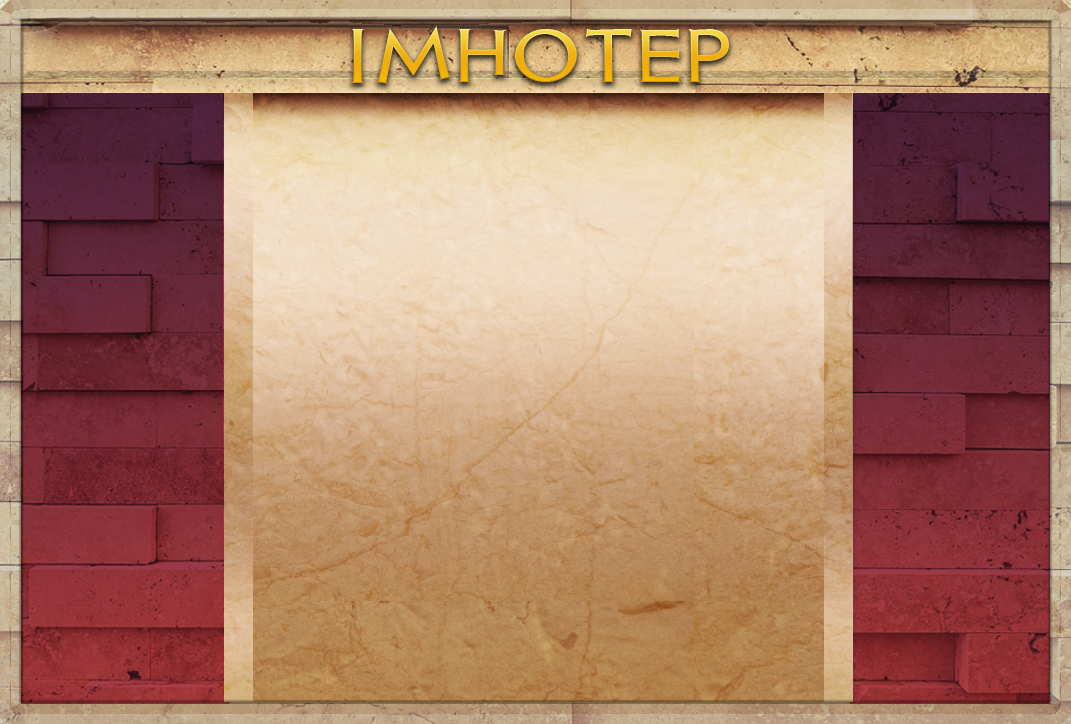
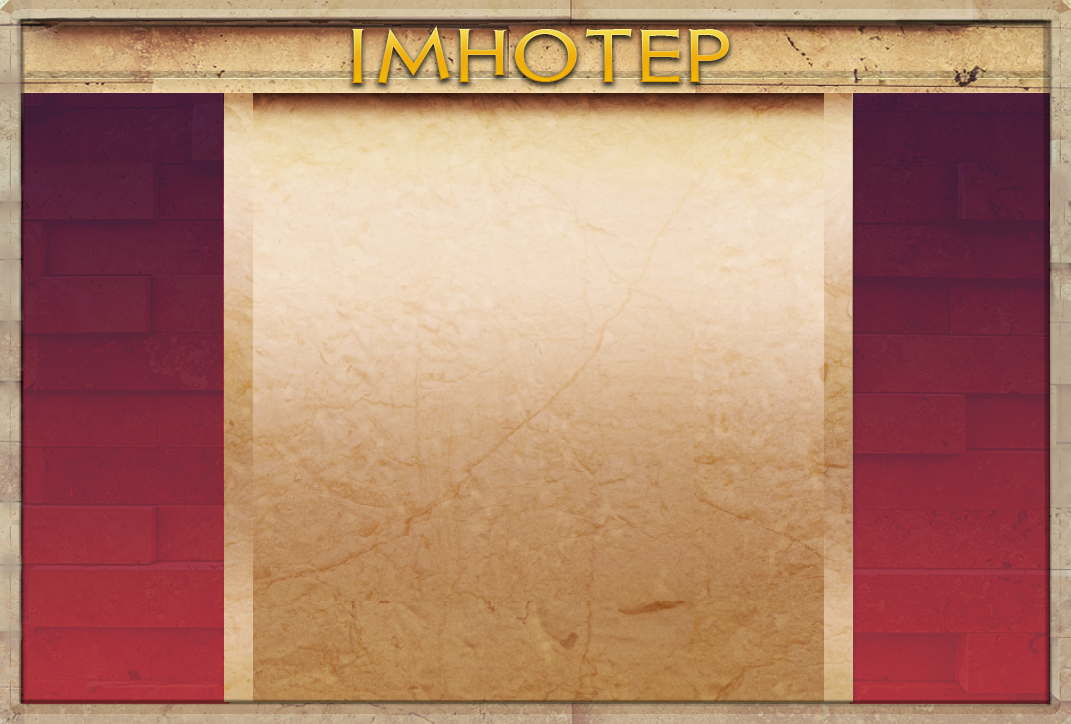
Registrationscne mit css versorgt

diff --git a/client/src/main/resources/style.css b/client/src/main/resources/style.css
@@ -2,18 +2,12 @@
     -fx-text-fill: #f4c933;
     -fx-background-color: linear-gradient(to bottom, #753b64 0%,#623e66 100%); /* W3C, IE10+, FF16+, Chrome26+, Opera12+, Safari7+ */
     -fx-border-radius: 0;
-
     -fx-font-weight: bold;
 
 }
 
-.grid .button{
-    -fx-effect: dropshadow(three-pass-box, rgba(0,0,0,0.8), 10, 0, 0, 0);
-}
 
-.grid {
 
-}
 #loginroot{
     -fx-background-image: url("imhotep.png");
     -fx-background-repeat: stretch;
@@ -21,7 +15,14 @@
     -fx-border-width:5;
 }
 
-#nav{
+#regroot{
+    -fx-background-image: url("imhotep.png");
+    -fx-background-repeat: stretch;
+    -fx-background-size: 720 480;
+    -fx-border-width:5;
+}
+
+.nav{
     -webkit-fx-padding: 5 5 5 5;
     -moz-fx-padding: 5 5 5 5;
     -ms-fx-padding: 5 5 5 5;

diff --git a/client/src/main/java/registration/view/RegistrationViewImpl.java b/client/src/main/java/registration/view/RegistrationViewImpl.java
@@ -9,8 +9,13 @@ import javafx.scene.control.Button;
 import javafx.scene.control.Label;
 import javafx.scene.control.PasswordField;
 import javafx.scene.control.TextField;
+import javafx.scene.input.MouseEvent;
+import javafx.scene.layout.BorderPane;
 import javafx.scene.layout.GridPane;
 import javafx.scene.paint.Color;
+import javafx.scene.layout.HBox;
+import javafx.scene.shape.Rectangle;
+import login.view.LoginViewImpl;
 import registration.presenter.RegistrationPresenter;
 
 
@@ -25,12 +30,30 @@ public class RegistrationViewImpl implements RegistrationView {
   }
 
   public void buildRegistration() {
-    GridPane root = new GridPane();
-    root.setAlignment(Pos.CENTER);
-    root.setPadding(new Insets(5));
-    root.setHgap(5);
-    root.setVgap(5);
-    registrationScene = new Scene(root);
+    BorderPane main = new BorderPane();
+    main.setId("regroot");
+    GridPane grid = new GridPane();
+    grid.setAlignment(Pos.CENTER);
+    grid.setPadding(new Insets(5));
+    grid.setHgap(5);
+    grid.setVgap(5);
+
+    Rectangle rect = new Rectangle(720,480);
+    rect.setArcHeight(30.0);
+    rect.setArcWidth(30.0);
+    main.setClip(rect);
+
+    HBox nav = new HBox();
+    nav.setId("nav");
+    nav.setSpacing(10);
+    nav.setAlignment(Pos.CENTER_RIGHT);
+    nav.setPadding(new Insets(15, 15, 15, 12));
+    main.setTop(nav);
+    main.setCenter(grid);
+
+
+    registrationScene = new Scene(main);
+    registrationScene.setFill(Color.TRANSPARENT);
 
     Label name = new Label("Benutzername:");
     TextField nameField = new TextField();
@@ -63,6 +86,22 @@ public class RegistrationViewImpl implements RegistrationView {
       }
     });
 
+    Button close = new Button("x");
+    close.addEventHandler(ActionEvent.ACTION, new EventHandler<ActionEvent>() {
+      public void handle(ActionEvent event) {
+        System.exit(0);
+      }
+    });
+
+    Button min =  new Button("_");
+    min.addEventHandler(ActionEvent.ACTION, new EventHandler<ActionEvent>() {
+      public void handle(ActionEvent event) {
+        registrationPresenter.getSceneController().getStage().setIconified(true);
+      }
+    });
+
+    min.setMinWidth(20);
+    close.setMinWidth(20);
     Button login = new Button("Zum Login wechseln");
     login.addEventHandler(ActionEvent.ACTION, new EventHandler<ActionEvent>() {
       public void handle(ActionEvent event) {
@@ -70,17 +109,33 @@ public class RegistrationViewImpl implements RegistrationView {
       }
     });
 
-    root.add(name, 2, 1);
-    root.add(nameField, 3, 1);
-    root.add(password, 2, 2);
-    root.add(passwordField, 3, 2);
-    root.add(password2, 2, 3);
-    root.add(passwordField2, 3, 3);
-    root.add(email, 2, 4);
-    root.add(emailField, 3, 4);
-    root.add(registrationStatus, 3, 5);
-    root.add(register, 2, 6);
-    root.add(login, 3, 6);
+    final Delta dragDelta = new Delta();
+    nav.setOnMousePressed(new EventHandler<MouseEvent>() {
+      @Override public void handle(MouseEvent mouseEvent) {
+        // record a delta distance for the drag and drop operation.
+        dragDelta.x =  registrationPresenter.getSceneController().getStage().getX() - mouseEvent.getScreenX();
+        dragDelta.y =  registrationPresenter.getSceneController().getStage().getY() - mouseEvent.getScreenY();
+      }
+    });
+    nav.setOnMouseDragged(new EventHandler<MouseEvent>() {
+      @Override public void handle(MouseEvent mouseEvent) {
+        registrationPresenter.getSceneController().getStage().setX(mouseEvent.getScreenX() + dragDelta.x);
+        registrationPresenter.getSceneController().getStage().setY(mouseEvent.getScreenY() + dragDelta.y);
+      }
+    });
+
+    nav.getChildren().addAll(min,close);
+    grid.add(name, 2, 1);
+    grid.add(nameField, 3, 1);
+    grid.add(password, 2, 2);
+    grid.add(passwordField, 3, 2);
+    grid.add(password2, 2, 3);
+    grid.add(passwordField2, 3, 3);
+    grid.add(email, 2, 4);
+    grid.add(emailField, 3, 4);
+    grid.add(registrationStatus, 3, 5);
+    grid.add(register, 2, 6);
+    grid.add(login, 3, 6);
   }
 
   public void updateStatusLabel(String result) {
@@ -90,6 +145,7 @@ public class RegistrationViewImpl implements RegistrationView {
   public Scene getRegistrationScene() {
     return this.registrationScene;
   }
+  class Delta { double x, y; }
 
   public void setRegistrationPresenter(RegistrationPresenter registrationPresenter) {
     this.registrationPresenter = registrationPresenter;

diff --git a/client/src/main/java/main/SceneController.java b/client/src/main/java/main/SceneController.java
@@ -44,6 +44,7 @@ public class SceneController {
             this.registrationPresenter = new RegistrationPresenter(new RegistrationViewImpl(), this);
         }
         this.stage.setScene(this.registrationPresenter.getRegistrationView().getRegistrationScene());
+        this.stage.getScene().getStylesheets().add("style.css");
     }
 
     public void toLoginScene() {
@@ -52,6 +53,7 @@ public class SceneController {
         }
 
         this.stage.setScene(this.loginPresenter.getLoginView().getLoginScene());
+        this.stage.getScene().getStylesheets().add("style.css");
     }
 
     public void toMainmenuScene() {
@@ -60,6 +62,7 @@ public class SceneController {
         }
 
         this.stage.setScene(this.MainmenuPresenter.getMainmenuView().getMainmenuScene());
+        this.stage.getScene().getStylesheets().add("style.css");
     }
 
     public ClientSocket getClientSocket() {

diff --git a/client/src/main/java/login/view/LoginViewImpl.java b/client/src/main/java/login/view/LoginViewImpl.java
@@ -31,8 +31,7 @@ public class LoginViewImpl implements LoginView {
   }
 
   public void buildLogin() { //created by mircoskrzipczyk, annkristinklopp
-    // Add stack to HBox in top region
-  BorderPane main = new BorderPane();
+    BorderPane main = new BorderPane();
     main.setId("loginroot");
     GridPane grid = new GridPane();
     grid.setAlignment(Pos.CENTER);

diff --git a/client/src/main/java/registration/presenter/RegistrationPresenter.java b/client/src/main/java/registration/presenter/RegistrationPresenter.java
@@ -35,6 +35,9 @@ public class RegistrationPresenter {
   public RegistrationView getRegistrationView() {
     return this.view;
   }
+  public SceneController getSceneController() {
+    return this.sceneController;
+  }
 
   private boolean validate(String password1, String password2, String username, String email) {
     String msg = "";
